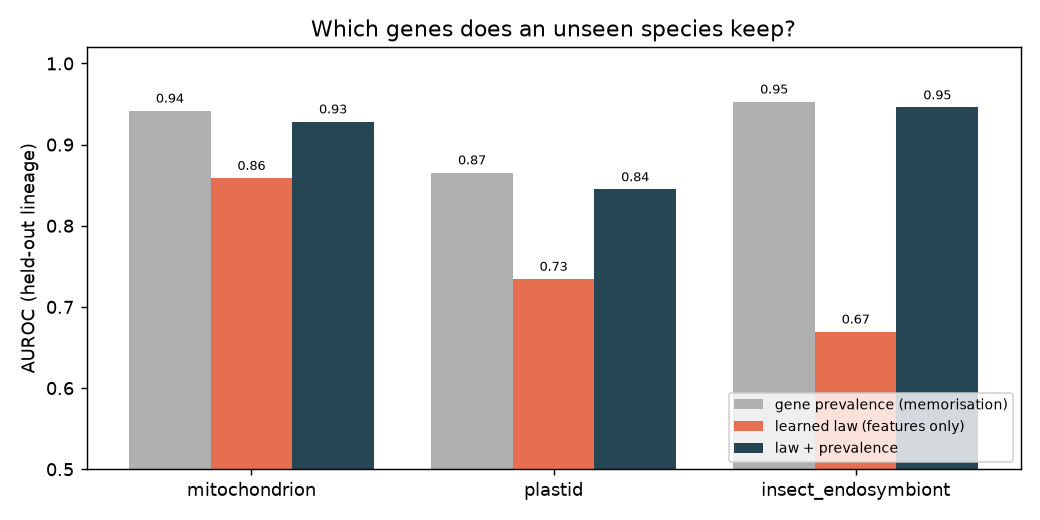
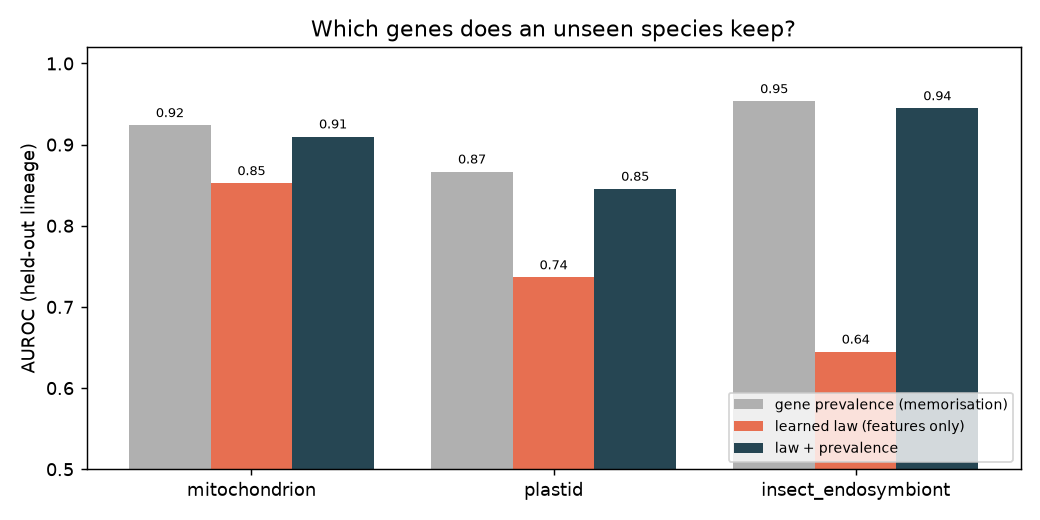
Rerun real-genome analysis with homology-based gene matching
64 genomes including Sodalis; 3,251 genes recovered by reciprocal best hits.
Update results/real and the README; conclusions are unchanged from name-only
matching, coefficient sizes shift slightly.

Claude-Session: https://claude.ai/code/session_01TJ6KiDmYYiq6zf1Ep6DJtF

diff --git a/results/real/forecasts.md b/results/real/forecasts.md
@@ -4,76 +4,77 @@
 
 | lineage | genes now | projected after +50% time (90% CI) | most at risk next |
 |---|---|---|---|
-| *Reclinomonas americana* | 65 | 64 (62-65) | rpod (13%), tata (13%), ccma (12%), rpoa (11%), rpob (9%) |
-| *Andalucia godoyi* | 64 | 62 (60-64) | rpoa (17%), tata (16%), ccma (15%), rpod (12%), rpob (11%) |
-| *Jakoba libera* | 60 | 57 (54-59) | tata (32%), ccma (29%), rpob (22%), rpoc (20%), nad10 (18%) |
-| *Marchantia polymorpha subsp. ruderalis* | 41 | 35 (31-38) | ccmfc (48%), ccmc (42%), ccmfn (40%), tatc (38%), ccmb (35%) |
-| *Physcomitrium patens* | 39 | 32 (28-36) | ccmfn (48%), ccmb (46%), ccmc (43%), tatc (41%), rps19 (34%) |
-| *Phytophthora infestans* | 35 | 28 (25-31) | nad11 (71%), tatc (51%), rps19 (40%), rps14 (37%), rps12 (36%) |
-| *Nephroselmis olivacea* | 34 | 27 (23-30) | nad10 (83%), tatc (51%), rps19 (37%), rps14 (37%), rps12 (36%) |
-| *Thalassiosira pseudonana* | 34 | 27 (23-30) | nad11 (75%), tatc (52%), rps14 (39%), rps12 (39%), rps13 (36%) |
-| *Acanthamoeba castellanii* | 31 | 24 (20-27) | nad11 (81%), rps12 (44%), rps19 (39%), rps14 (39%), rps13 (37%) |
-| *Dictyostelium discoideum* | 31 | 24 (21-27) | rps19 (46%), rps12 (44%), rps7 (42%), rps14 (42%), rps13 (41%) |
-| *Arabidopsis thaliana* | 29 | 22 (19-26) | ccmfc (71%), tatc (59%), ccmc (59%), ccmb (55%), rps12 (41%) |
-| *Prototheca wickerhamii* | 29 | 22 (19-25) | rps12 (51%), rps14 (48%), rps19 (44%), rps13 (43%), rps7 (42%) |
-| *Cyanidioschyzon merolae* | 26 | 20 (16-23) | rps14 (59%), rps12 (52%), rpl16 (50%), rpl20 (49%), rps4 (44%) |
-| *Monosiga brevicollis* | 26 | 19 (16-23) | tatc (64%), rps12 (56%), rps19 (50%), rps14 (50%), rpl16 (50%) |
-| *Chondrus crispus* | 22 | 17 (14-20) | tatc (79%), rps12 (63%), rpl16 (59%), rps3 (51%), rps11 (49%) |
-| *Tetrahymena thermophila* | 20 | 13 (10-16) | nad10 (96%), rps19 (57%), rps12 (56%), rps14 (55%), rpl16 (52%) |
-| *Allomyces macrogynus* | 15 | 12 (9-14) | rps3 (71%), atp8 (52%), cox2 (32%), atp9 (28%), nad3 (24%) |
-| *Neurospora crassa OR74A* | 14 | 11 (8-13) | atp8 (61%), cox2 (37%), atp9 (32%), cox3 (27%), nad3 (24%) |
-| *Danio rerio* | 13 | 10 (8-12) | atp8 (63%), cox2 (36%), nad3 (26%), nad4l (21%), cox3 (21%) |
-| *Drosophila melanogaster* | 13 | 10 (7-12) | atp8 (66%), cox2 (39%), nad3 (28%), cox3 (23%), nad4l (23%) |
-| *Gallus gallus* | 13 | 10 (7-12) | atp8 (63%), cox2 (38%), nad3 (28%), cox3 (24%), nad4l (24%) |
-| *Homo sapiens* | 13 | 10 (8-12) | atp8 (64%), cox2 (36%), nad3 (27%), cox3 (23%), nad4l (21%) |
-| *Metridium senile* | 13 | 10 (7-12) | atp8 (59%), cox2 (42%), nad3 (31%), cox3 (24%), nad4l (23%) |
-| *Mus musculus* | 13 | 10 (8-12) | atp8 (63%), cox2 (36%), nad3 (28%), cox3 (21%), atp6 (20%) |
-| *Caenorhabditis elegans* | 12 | 10 (7-12) | cox2 (42%), nad3 (31%), cox3 (27%), nad4l (26%), atp6 (20%) |
-| *Trichoplax adhaerens* | 11 | 8 (6-10) | cox2 (44%), nad3 (35%), cox3 (30%), nad4l (27%), cob (23%) |
-| *Schizosaccharomyces pombe* | 8 | 5 (3-7) | rps3 (85%), atp8 (71%), atp9 (44%), cox2 (43%), cox3 (26%) |
-| *Chlamydomonas reinhardtii* | 7 | 5 (3-7) | cob (34%), nad6 (34%), nad1 (28%), cox1 (24%), nad5 (24%) |
-| *Saccharomyces cerevisiae S288C* | 6 | 3 (2-5) | atp8 (83%), cox2 (56%), cox3 (40%), atp6 (30%), cob (30%) |
-| *Plasmodium falciparum* | 2 | 1 (0-2) | cox3 (73%), cox1 (51%) |
+| *Reclinomonas americana* | 65 | 63 (60-65) | rpoa (21%), rpod (18%), tata (16%), ccma (15%), rpoc (13%) |
+| *Andalucia godoyi* | 64 | 61 (58-63) | ccma (25%), rpoa (24%), rpod (22%), tata (21%), rpob (16%) |
+| *Jakoba libera* | 60 | 56 (52-59) | tata (36%), ccma (32%), rpob (27%), rpoc (23%), nad10 (16%) |
+| *Marchantia polymorpha subsp. ruderalis* | 42 | 35 (31-38) | ccmfc (45%), ccmfn (43%), ai1 (40%), tatc (37%), ccmc (36%) |
+| *Physcomitrium patens* | 40 | 33 (29-36) | ccmfn (46%), ccmc (38%), ccmb (37%), tatc (37%), rps14 (37%) |
+| *Nephroselmis olivacea* | 36 | 28 (24-32) | scei (63%), nad10 (58%), tatc (44%), rps12 (40%), rps19 (37%) |
+| *Phytophthora infestans* | 35 | 27 (23-31) | nad11 (55%), tatc (44%), rps14 (42%), rps12 (40%), rps19 (40%) |
+| *Thalassiosira pseudonana* | 35 | 27 (23-31) | ai1 (55%), nad11 (48%), tatc (47%), rps12 (41%), rps13 (40%) |
+| *Dictyostelium discoideum* | 34 | 26 (22-30) | scei (66%), nad11 (52%), rps19 (42%), rps12 (40%), rps14 (39%) |
+| *Acanthamoeba castellanii* | 32 | 24 (20-28) | nad11 (60%), rps14 (47%), rps13 (44%), rps19 (44%), rps12 (42%) |
+| *Arabidopsis thaliana* | 30 | 22 (19-26) | ccmfn (65%), ccmfc (65%), ccmb (58%), tatc (55%), ccmc (52%) |
+| *Cyanidioschyzon merolae* | 30 | 23 (20-26) | ccma (93%), ccmc (52%), rps14 (42%), rps12 (42%), rpl16 (38%) |
+| *Prototheca wickerhamii* | 30 | 23 (19-26) | rps12 (52%), rps19 (51%), rps14 (49%), rps7 (44%), rps13 (42%) |
+| *Monosiga brevicollis* | 26 | 19 (16-22) | tatc (60%), rps19 (55%), rps14 (54%), rps12 (52%), rps13 (50%) |
+| *Chondrus crispus* | 22 | 17 (13-19) | tatc (71%), rps12 (66%), rpl16 (57%), rps11 (55%), rps3 (47%) |
+| *Tetrahymena thermophila* | 21 | 14 (11-17) | nad10 (86%), rps19 (64%), rps14 (62%), rps12 (60%), rps13 (59%) |
+| *Allomyces macrogynus* | 17 | 13 (10-15) | scei (93%), ai1 (82%), rps3 (57%), atp8 (43%), atp9 (25%) |
+| *Neurospora crassa OR74A* | 15 | 11 (9-13) | bi2 (75%), atp8 (55%), atp9 (31%), cox2 (27%), nad3 (26%) |
+| *Danio rerio* | 13 | 10 (7-12) | atp8 (67%), cox2 (38%), nad3 (30%), atp6 (26%), nad4l (25%) |
+| *Drosophila melanogaster* | 13 | 10 (7-12) | atp8 (62%), cox2 (35%), nad3 (28%), atp6 (26%), nad4l (25%) |
+| *Gallus gallus* | 13 | 10 (7-12) | atp8 (62%), cox2 (36%), nad3 (33%), cox3 (27%), nad4l (22%) |
+| *Homo sapiens* | 13 | 10 (7-12) | atp8 (62%), cox2 (38%), cox3 (29%), nad3 (28%), nad4l (27%) |
+| *Metridium senile* | 13 | 10 (7-12) | atp8 (60%), cox2 (35%), nad3 (31%), nad4l (28%), cox3 (26%) |
+| *Mus musculus* | 13 | 10 (8-12) | atp8 (64%), cox2 (38%), nad3 (27%), cox3 (25%), nad4l (24%) |
+| *Caenorhabditis elegans* | 12 | 9 (7-11) | cox2 (40%), nad4l (33%), nad3 (31%), cox3 (26%), cob (24%) |
+| *Trichoplax adhaerens* | 12 | 9 (7-11) | cox2 (38%), nad3 (35%), atp6 (31%), nad4l (30%), cox3 (27%) |
+| *Saccharomyces cerevisiae S288C* | 10 | 6 (4-8) | scei (97%), ai1 (90%), bi2 (69%), atp8 (52%), cox2 (30%) |
+| *Schizosaccharomyces pombe* | 9 | 5 (3-7) | ai1 (96%), rps3 (72%), atp8 (60%), atp9 (36%), cox2 (32%) |
+| *Chlamydomonas reinhardtii* | 7 | 5 (3-7) | nad6 (38%), cob (33%), nad1 (32%), cox1 (29%), nad2 (29%) |
+| *Plasmodium falciparum* | 2 | 1 (0-2) | cox3 (68%), cox1 (52%) |
 
 ## plastid
 
 | lineage | genes now | projected after +50% time (90% CI) | most at risk next |
 |---|---|---|---|
-| *Porphyra purpurea* | 174 | 152 (145-159) | ycf31 (27%), thig (26%), ycf12 (26%), ycf33 (25%), cara (25%) |
-| *Cyanidioschyzon merolae strain 10D* | 173 | 151 (143-158) | apca (27%), rbcs (26%), odpa (26%), ilvb (25%), ycf65 (25%) |
-| *Paulinella chromatophora* | 167 | 144 (137-151) | cpca (31%), acpp (29%), chli (29%), apcf (29%), ycf23 (28%) |
-| *Guillardia theta* | 139 | 112 (105-119) | ycf33 (44%), ycf39 (42%), ycf20 (42%), ycf12 (42%), ftrb (41%) |
-| *Phaeodactylum tricornutum* | 130 | 103 (96-110) | this (50%), acpp (48%), ycf88 (46%), ycf12 (45%), ycf41 (45%) |
-| *Thalassiosira pseudonana* | 127 | 100 (93-108) | ycf39 (49%), this (49%), rbcr (48%), ycf45 (48%), ycf35 (48%) |
-| *Cyanophora paradoxa* | 124 | 95 (87-102) | ycf12 (51%), ycf34 (48%), apca (47%), cpca (46%), cpcb (45%) |
-| *Emiliania huxleyi* | 109 | 81 (74-89) | ycf47 (58%), ycf12 (57%), ycf3 (57%), ycf40 (56%), groel (55%) |
-| *Mesostigma viride* | 99 | 72 (66-78) | ycf12 (63%), ycf6 (62%), ycf3 (60%), ycf61 (60%), chln (58%) |
-| *Nephroselmis olivacea* | 91 | 64 (57-71) | ycf12 (64%), chln (64%), ycf6 (63%), ycf4 (62%), chlb (62%) |
-| *Physcomitrium patens* | 81 | 56 (49-62) | chlb (69%), ycf4 (69%), ycf3 (68%), accd (68%), clpp (68%) |
-| *Marchantia polymorpha* | 80 | 56 (49-63) | clpp (71%), accd (70%), cysa (68%), chll (68%), ycf45 (68%) |
-| *Arabidopsis thaliana* | 78 | 54 (48-61) | clpp (70%), ycf4 (69%), accd (68%), ycf3 (68%), matk (67%) |
-| *Nicotiana tabacum* | 78 | 54 (48-60) | ycf3 (72%), rbcl (71%), clpp (70%), accd (69%), matk (68%) |
-| *Amborella trichopoda* | 76 | 53 (46-59) | ycf3 (73%), clpp (72%), accd (68%), rbcl (68%), ycf4 (67%) |
-| *Oryza sativa Japonica Group* | 75 | 52 (46-58) | ycf3 (73%), matk (72%), clpp (70%), ycf4 (70%), rbcl (68%) |
-| *Chlamydomonas reinhardtii* | 62 | 39 (34-45) | ycf12 (83%), ycf3 (78%), clpp (77%), chll (76%), rbcl (76%) |
-| *Euglena gracilis* | 57 | 36 (31-41) | ycf12 (84%), ycf9 (83%), ycf4 (79%), chli (79%), rbcl (78%) |
-| *Toxoplasma gondii RH* | 21 | 9 (5-12) | clpc (96%), ycf24 (94%), rpl6 (63%), rpl4 (62%), rps11 (62%) |
-| *Epifagus virginiana* | 20 | 7 (4-11) | clpp (96%), accd (95%), matk (93%), ycf2 (87%), rpl33 (59%) |
-| *Plasmodium falciparum 3D7* | 19 | 7 (4-11) | rpl6 (67%), rpl14 (66%), rps11 (65%), rps7 (65%), rps8 (65%) |
+| *Paulinella chromatophora* | 206 | 187 (180-194) | ilvh (19%), lipb (18%), ycf59 (18%), ycf32 (18%), apcd (18%) |
+| *Porphyra purpurea* | 195 | 173 (165-179) | ycf12 (23%), ycf33 (23%), ycf27 (22%), cpcg (22%), ycf17 (22%) |
+| *Cyanidioschyzon merolae strain 10D* | 188 | 164 (156-171) | hlp (26%), ycf62 (25%), nbla (25%), ycf22 (25%), apca (24%) |
+| *Guillardia theta* | 142 | 113 (105-120) | ycf3 (45%), ycf16 (45%), ycf65 (45%), ilvh (44%), ycf31 (44%) |
+| *Phaeodactylum tricornutum* | 130 | 101 (94-108) | ycf12 (52%), cbbx (50%), rbcs (50%), chli (50%), this (49%) |
+| *Cyanophora paradoxa* | 128 | 96 (88-104) | ycf34 (51%), apca (50%), groes (50%), chli (48%), ycf35 (48%) |
+| *Thalassiosira pseudonana* | 127 | 98 (92-106) | this (51%), ycf3 (51%), ycf16 (50%), ycf4 (50%), rbcr (50%) |
+| *Emiliania huxleyi* | 112 | 82 (75-88) | rbcs (60%), ycf20 (58%), ycf80 (58%), ycf12 (57%), ycf27 (56%) |
+| *Mesostigma viride* | 99 | 70 (64-78) | ycf12 (65%), ycf6 (63%), ycf65 (62%), ycf62 (62%), chlb (62%) |
+| *Nephroselmis olivacea* | 91 | 63 (57-70) | ycf6 (69%), ycf12 (68%), ycf4 (67%), cysa (64%), chli (64%) |
+| *Marchantia polymorpha* | 83 | 58 (51-64) | cysa (73%), ycf12 (73%), ycf3 (71%), ycf45 (70%), chln (69%) |
+| *Physcomitrium patens* | 83 | 57 (50-63) | ycf12 (73%), accd (72%), chln (70%), matk (68%), ycf3 (67%) |
+| *Amborella trichopoda* | 79 | 55 (49-61) | ycf3 (71%), clpp (71%), rbcl (71%), matk (70%), accd (70%) |
+| *Arabidopsis thaliana* | 78 | 54 (48-60) | rbcl (73%), accd (72%), clpp (72%), ycf3 (71%), ycf4 (70%) |
+| *Nicotiana tabacum* | 78 | 54 (48-60) | rbcl (74%), accd (73%), matk (73%), clpp (71%), ycf4 (71%) |
+| *Oryza sativa Japonica Group* | 76 | 53 (46-58) | matk (76%), ycf3 (74%), rbcl (70%), clpp (69%), ycf4 (68%) |
+| *Chlamydomonas reinhardtii* | 63 | 40 (35-47) | ycf12 (78%), ycf3 (77%), chln (77%), ycf4 (75%), rbcl (75%) |
+| *Euglena gracilis* | 57 | 36 (30-41) | ycf12 (85%), ycf9 (85%), chli (83%), rbcl (81%), ycf4 (76%) |
+| *Epifagus virginiana* | 21 | 8 (4-11) | clpp (94%), accd (93%), matk (93%), ycf1 (91%), ycf2 (89%) |
+| *Plasmodium falciparum 3D7* | 21 | 8 (5-12) | ycf24 (97%), clpc (96%), rps8 (63%), rpl36 (62%), rpl6 (62%) |
+| *Toxoplasma gondii RH* | 21 | 9 (5-12) | ycf24 (95%), clpc (94%), rps19 (62%), rpl14 (62%), rps4 (62%) |
 
 ## insect_endosymbiont
 
 | lineage | genes now | projected after +50% time (90% CI) | most at risk next |
 |---|---|---|---|
-| *Serratia symbiotica* | 1226 | 688 (661-714) | ilvl (64%), mrdb (64%), gntt (64%), tsga (63%), ydik (63%) |
-| *Candidatus Hamiltonella defensa (Bemisia tabaci)* | 694 | 313 (294-333) | znub (80%), pgsa (79%), rhta (79%), weca (78%), ftsw (78%) |
-| *Candidatus Palibaumannia cicadellinicola* | 528 | 218 (202-237) | weca (84%), murj (82%), pgsa (81%), baca (81%), mred (81%) |
-| *Wigglesworthia glossinidia endosymbiont of Glossina morsitans morsitans (Yale colony)* | 525 | 215 (196-231) | nhaa (83%), mray (82%), yhdy (82%), ydik (82%), ycic (82%) |
-| *Candidatus Blochmanniella floridana* | 479 | 197 (183-216) | gltp (84%), many (84%), yjce (84%), mray (83%), ybhl (83%) |
-| *Candidatus Blochmanniella pennsylvanica* | 429 | 166 (151-182) | ftsw (85%), ubia (85%), mray (84%), mred (84%), plsy (83%) |
-| *Buchnera aphidicola str. APS (Acyrthosiphon pisum)* | 422 | 167 (153-182) | rsxa (87%), mray (86%), cyoe (86%), znub (85%), murj (84%) |
-| *Buchnera aphidicola str. Bp (Baizongia pistaciae)* | 418 | 167 (153-182) | mray (87%), znub (86%), yabi (85%), ycic (85%), cvpa (84%) |
-| *Buchnera aphidicola (Schizaphis graminum)* | 416 | 164 (148-180) | flir (86%), rsxa (85%), tsga (84%), mscs (84%), znub (84%) |
-| *Buchnera aphidicola (Cinara tujafilina)* | 309 | 117 (105-129) | ycic (90%), yche (89%), cyoe (88%), yhgn (88%), yeda (87%) |
-| *Candidatus Moranella endobia PCIT* | 298 | 113 (101-124) | ftsw (90%), lspa (89%), mscl (88%), mray (87%), baca (87%) |
-| *Candidatus Riesia pediculicola* | 297 | 104 (93-116) | mray (89%), ftsw (88%), potb (88%), nhaa (88%), murj (87%) |
+| *Serratia symbiotica* | 1698 | 1096 (1063-1124) | seta (54%), phel (53%), cysz (53%), dgka (53%), phem (53%) |
+| *Sodalis glossinidius str. 'morsitans'* | 1588 | 994 (962-1025) | yqae (58%), yjch (57%), ilvl (56%), weca (56%), gdx (54%) |
+| *Candidatus Hamiltonella defensa (Bemisia tabaci)* | 931 | 467 (446-491) | pgsa (70%), weca (70%), arnf (70%), rhta (69%), yhdt (69%) |
+| *Candidatus Palibaumannia cicadellinicola* | 639 | 280 (261-301) | weca (78%), yggt (78%), ubia (77%), yjce (77%), lapa (77%) |
+| *Wigglesworthia glossinidia endosymbiont of Glossina morsitans morsitans (Yale colony)* | 596 | 255 (236-273) | yhdy (80%), murj (79%), mnth (79%), emre (79%), ycca (78%) |
+| *Candidatus Blochmanniella floridana* | 570 | 245 (229-262) | znub (81%), ftsb (79%), mred (79%), murj (79%), plsy (79%) |
+| *Buchnera aphidicola str. APS (Acyrthosiphon pisum)* | 547 | 234 (215-251) | mray (81%), rsxa (81%), glpf (80%), cyoe (80%), rsxe (79%) |
+| *Buchnera aphidicola (Schizaphis graminum)* | 546 | 232 (215-252) | ycic (82%), flir (81%), fliq (80%), yeda (80%), mscs (79%) |
+| *Candidatus Blochmanniella pennsylvanica* | 541 | 225 (210-243) | mnth (80%), znub (80%), ubia (79%), mrdb (79%), lspa (79%) |
+| *Buchnera aphidicola str. Bp (Baizongia pistaciae)* | 498 | 207 (190-224) | znub (83%), ydik (82%), mray (82%), tsga (81%), cvpa (81%) |
+| *Candidatus Riesia pediculicola* | 430 | 165 (150-181) | mray (84%), mrdb (84%), ybhl (83%), potb (83%), potc (82%) |
+| *Candidatus Moranella endobia PCIT* | 399 | 156 (141-169) | ycic (86%), murj (85%), mrdb (85%), lptf (84%), yggt (84%) |
+| *Buchnera aphidicola (Cinara tujafilina)* | 357 | 138 (126-152) | yhgn (87%), ycic (86%), yche (86%), rpll (85%), cyoe (85%) |

diff --git a/README.md b/README.md
@@ -99,42 +99,45 @@ kL    *= 1 + coupling · (같은 경로에서 이미 소실된 비율)   (경로
 
 `realdata/` 패키지는 NCBI에서 실제 유전체를 받아 같은 방식으로 학습합니다.
 
-1. **수집** (`scripts/fetch_data.py`, GitHub Actions `fetch-data.yml`로 자동 실행): 미토콘드리아 30종(자코바이드 → 식물 → 균류 → 동물 → *Plasmodium*), 색소체 21종(시아넬, 홍조류, 녹색식물, 기생식물 *Epifagus*, 아피코플라스트, 독립적 1차 공생인 *Paulinella* 크로마토포어), 곤충 내공생세균 12종(*Serratia symbiotica* → *Buchnera*). 곤충 내공생세균의 조상 대리로는 자유생활 근연종 *E. coli* K-12(유전자 4,277개)를 씁니다. `/gene`이 없는 오래된 기록은 `/product` 설명에서 유전자 기호를 추론합니다.
-2. **특성**은 실제 단백질 서열에서 직접 계산합니다. Kyte-Doolittle 소수성(GRAVY), 막관통 나선 수, 단백질 길이, 기능군(전자전달 핵심, ATP 합성효소, 번역, 전사, 단백질 표적화)입니다.
-3. **학습**: 실제 유전체에서는 빠진 유전자가 핵으로 갔는지 사라졌는지 구별하기 어렵습니다. 그래서 "소기관을 떠나는" 결합 위험도 하나를 학습합니다(보존 확률 = exp(−exp(a + x·w))).
-4. **검증**: 한 종을 빼고 학습한 뒤, 그 종이 **몇 개**를 남겼는지만 주고 **어떤** 유전자를 남겼는지 예측합니다(leave-one-lineage-out AUROC). 기준선은 다른 종에서의 유전자 보존 빈도입니다.
-5. **보편성 검정**: 한 법칙으로 세 시스템을 모두 설명하는 모델과 시스템마다 법칙을 따로 두는 모델을 AIC로 비교합니다.
-6. **예측**: 각 종이 지금보다 50% 더 진화했을 때 몇 개의 유전자가 남고, 다음에 어떤 유전자가 떠날지 예측합니다(`results/real/forecasts.md`).
+1. **수집** (`scripts/fetch_data.py`, GitHub Actions `fetch-data.yml`로 자동 실행): 미토콘드리아 30종(자코바이드 → 식물 → 균류 → 동물 → *Plasmodium*), 색소체 21종(시아넬, 홍조류, 녹색식물, 기생식물 *Epifagus*, 아피코플라스트, 독립적 1차 공생인 *Paulinella* 크로마토포어), 곤충 내공생세균 13종(*Sodalis* → *Serratia symbiotica* → *Buchnera*). 곤충 내공생세균의 조상 대리로는 자유생활 근연종 *E. coli* K-12(유전자 4,277개)를 씁니다.
+2. **유전자 짝짓기** (`realdata/homology.py`): 주석은 일관성이 없어서, 같은 유전자가 어떤 기록에서는 이름이 없거나 다른 이름으로 붙어 있습니다. 먼저 `/gene` 이름이나 `/product` 설명으로 짝짓고, 나머지는 **단백질 서열 유사도**(HMMER3 phmmer)로 짝짓습니다. 곤충 공생세균은 *E. coli* 단백질과, 소기관은 다른 종들의 이름 있는 단백질과 비교합니다. 서로가 서로의 최고 일치(reciprocal best hit)이고, E ≤ 1e-10이며, 양쪽 서열의 50% 이상이 정렬될 때만 이름을 붙입니다. 이 방식으로 이름만으로는 놓쳤던 유전자 **3,251개**를 찾았습니다(곤충 공생세균 3,150개, 색소체 79개, 미토콘드리아 22개). 예를 들어 *Buchnera* APS의 대장균 유래 유전자는 435개에서 547개가 됐고, 유전자의 7%에만 이름이 붙어 있던 *Sodalis*도 분석에 넣을 수 있게 됐습니다.
+3. **특성**은 실제 단백질 서열에서 직접 계산합니다. Kyte-Doolittle 소수성(GRAVY), 막관통 나선 수, 단백질 길이, 기능군(전자전달 핵심, ATP 합성효소, 번역, 전사, 단백질 표적화)입니다.
+4. **학습**: 실제 유전체에서는 빠진 유전자가 핵으로 갔는지 사라졌는지 구별하기 어렵습니다. 그래서 "소기관을 떠나는" 결합 위험도 하나를 학습합니다(보존 확률 = exp(−exp(a + x·w))).
+5. **검증**: 한 종을 빼고 학습한 뒤, 그 종이 **몇 개**를 남겼는지만 주고 **어떤** 유전자를 남겼는지 예측합니다(leave-one-lineage-out AUROC). 기준선은 다른 종에서의 유전자 보존 빈도입니다.
+6. **보편성 검정**: 한 법칙으로 세 시스템을 모두 설명하는 모델과 시스템마다 법칙을 따로 두는 모델을 AIC로 비교합니다.
+7. **예측**: 각 종이 지금보다 50% 더 진화했을 때 몇 개의 유전자가 남고, 다음에 어떤 유전자가 떠날지 예측합니다(`results/real/forecasts.md`).
 
 ```bash
 python scripts/fetch_data.py      # eutils.ncbi.nlm.nih.gov 접근 필요
 python scripts/run_realdata.py    # → results/real/
 ```
 
-### 실제 데이터 결과 (유전체 63개)
+### 실제 데이터 결과 (유전체 64개)
 
 ![real laws](results/real/fig_real_laws.png)
 
 **1. 세 시스템이 공유하는 법칙.** 전자전달 핵심 유전자(nad/cox/cob, psa/psb/pet, nuo/cyo), ATP 합성효소, 번역 장치(리보솜 단백질, EF-Tu)는 세 시스템 모두에서 뚜렷하게 **남는** 쪽입니다. 숙주가 누구든, 공생체 안에서 에너지를 만들고 그 단백질을 번역하는 핵심은 끝까지 남습니다.
 
-**2. 시스템마다 다른 법칙.** 하나의 법칙으로 세 시스템을 설명하는 모델은 시스템별 모델보다 훨씬 나쁩니다(ΔAIC = 799). 가장 큰 차이는 다음 두 가지입니다.
-- **전사(RNA 중합효소, rpo):** 미토콘드리아에서는 **잃는** 쪽(+0.68)이지만, 색소체에서는 가장 강하게 **남는** 쪽(−2.46)입니다. 실제로 거의 모든 진핵생물의 미토콘드리아는 세균형 RNA 중합효소를 버리고 파지형 효소로 대체했고(자코바이드만 예외), 엽록체는 세균형 중합효소(PEP)를 유지합니다. 모델이 이 차이를 데이터만으로 찾아냈습니다.
-- **소수성과 막관통 나선:** 미토콘드리아에서만 보존 효과가 있습니다(막관통 −0.51 ± 0.27). 핵으로 옮겨 갈 경로가 없는 곤충 내공생세균에서는 효과가 없거나 반대입니다. "소수성 단백질은 핵으로 옮긴 뒤 다시 수입하기 어려워 남는다"는 소수성 가설과 맞아떨어집니다. 이 효과는 핵으로의 전달이 있을 때만 의미가 있기 때문입니다. 반면 색소체에서는 뚜렷한 효과가 없어서, 가설이 모든 소기관에 똑같이 적용되지는 않음을 보여줍니다.
-- 미토콘드리아에서는 단백질 표적화/시토크롬 c 생합성(ccm, tat, sec) 유전자가 빨리 사라집니다(+0.81).
+**2. 시스템마다 다른 법칙.** 하나의 법칙으로 세 시스템을 설명하는 모델은 시스템별 모델보다 훨씬 나쁩니다(ΔAIC = 787). 가장 큰 차이는 다음 두 가지입니다.
+- **전사(RNA 중합효소, rpo):** 미토콘드리아에서는 **잃는** 쪽(+1.02 ± 0.53)이지만, 색소체에서는 가장 강하게 **남는** 쪽(−2.55 ± 0.70)입니다. 실제로 거의 모든 진핵생물의 미토콘드리아는 세균형 RNA 중합효소를 버리고 파지형 효소로 대체했고(자코바이드만 예외), 엽록체는 세균형 중합효소(PEP)를 유지합니다. 모델이 이 차이를 데이터만으로 찾아냈습니다.
+- **소수성과 막관통 나선:** 미토콘드리아에서만 보존 효과가 있습니다(막관통 −0.37 ± 0.23, 소수성 −0.32 ± 0.15). 핵으로 옮겨 갈 경로가 없는 곤충 내공생세균에서는 효과가 없거나 반대입니다. "소수성 단백질은 핵으로 옮긴 뒤 다시 수입하기 어려워 남는다"는 소수성 가설과 맞아떨어집니다. 이 효과는 핵으로의 전달이 있을 때만 의미가 있기 때문입니다. 반면 색소체에서는 뚜렷한 효과가 없어서, 가설이 모든 소기관에 똑같이 적용되지는 않음을 보여줍니다.
+- 미토콘드리아에서는 단백질 표적화/시토크롬 c 생합성(ccm, tat, sec) 유전자가 빨리 사라집니다(+0.90).
+
+이 결론들은 유전자를 이름으로만 짝지었을 때와 유사도로 짝지었을 때 모두 같게 나옵니다. 계수의 크기는 조금 달라지지만 부호와 유의성은 그대로입니다.
 
 **3. 처음 보는 종 예측하기.** 한 종을 빼고 학습한 뒤, 그 종이 몇 개를 남겼는지만 알려주고 어떤 유전자를 남겼는지 맞히게 했습니다.
 
 ![held-out](results/real/fig_real_heldout.png)
 
-유전자 이름을 전혀 보지 않고 특성만 쓰는 법칙으로도 AUROC 0.86(미토콘드리아)을 얻었습니다. 하지만 "다른 종에서 이 유전자가 얼마나 자주 남았나"를 외우는 기준선이 더 강하고, 둘을 합쳐도 나아지지 않습니다. **정직한 해석:** 현재 8개 특성은 일반 원리를 잘 담지만, 유전자별 사정(구체적인 단백질 복합체 조립 방식 등)까지 설명하지는 못합니다. 대신 법칙은 처음 보는 유전자에도 적용할 수 있습니다.
+유전자 이름을 전혀 보지 않고 특성만 쓰는 법칙으로도 AUROC 0.85(미토콘드리아)를 얻었습니다. 하지만 "다른 종에서 이 유전자가 얼마나 자주 남았나"를 외우는 기준선이 더 강하고, 둘을 합쳐도 나아지지 않습니다. **정직한 해석:** 현재 8개 특성은 일반 원리를 잘 담지만, 유전자별 사정(구체적인 단백질 복합체 조립 방식 등)까지 설명하지는 못합니다. 대신 법칙은 처음 보는 유전자에도 적용할 수 있습니다.
 
-**4. 미래 예측 (`results/real/forecasts.md`).** 예를 들어 사람 mtDNA(13개)는 50% 더 진화하면 약 10개(90% 구간 8–12개)가 남고, 다음으로 사라질 가능성이 가장 높은 유전자는 **atp8**(64%)입니다. atp8은 가장 작은 mtDNA 단백질이고, 실제로 예쁜꼬마선충과 클라미도모나스 등 여러 계통에서 이미 사라졌습니다. 이 수치는 학습된 법칙을 연장한 투영이며, 검증된 예측이 아닙니다.
+**4. 미래 예측 (`results/real/forecasts.md`).** 예를 들어 사람 mtDNA(13개)는 50% 더 진화하면 약 10개(90% 구간 7–12개)가 남고, 다음으로 사라질 가능성이 가장 높은 유전자는 **atp8**(62%)입니다. atp8은 가장 작은 mtDNA 단백질이고, 실제로 예쁜꼬마선충과 클라미도모나스 등 여러 계통에서 이미 사라졌습니다. 이 수치는 학습된 법칙을 연장한 투영이며, 검증된 예측이 아닙니다.
 
 주의할 점:
 - 모든 계통에서 사라진 유전자는 관측되지 않습니다. 미토콘드리아와 색소체에서는 가장 유전자가 많은 유전체들의 합집합이 조상을 대신합니다.
 - 계통들은 계통수를 공유하므로 독립이 아닙니다.
 - Kyte-Doolittle 막관통 예측은 조잡한 편이라 실제 나선 수를 과소평가합니다.
-- 유전자는 이름으로만 대응시킵니다(상동성 검색 없음). 곤충 내공생세균 기록 중 유전자 기호가 없는 CDS는 "없음"으로 처리되어 소실이 과대평가될 수 있습니다. 같은 이유로 *Sodalis*는 제외했습니다(기록의 약 7%만 이름이 있음).
+- 유사도 짝짓기는 보수적입니다(양방향 최고 일치). 빠르게 진화한 유전자(예: 섬모충 미토콘드리아의 nad 유전자)는 여전히 놓칠 수 있어, 소실이 약간 과대평가될 수 있습니다. 유사도 검색 결과는 `data/processed/homology.json`에 캐시되고, `--no-homology`로 이름만 쓰는 분석과 비교할 수 있습니다.
 - *Plasmodium* 미토콘드리아 RefSeq 기록(NC_037526)은 cob을 "cytochrome oxidase I"로 잘못 주석해서 유전자가 2개로 잡힙니다. 데이터는 손으로 고치지 않았습니다.
 
 ## 실행
@@ -156,7 +159,7 @@ src/organelle_evo/
   inference.py   ② 신경망 사후분포 추정 (SBI)
   predict.py     ③ 예측, 기준선, AUROC
   systems.py     미토콘드리아 / 색소체 / 곤충 내공생세균 시스템 정의
-  realdata/      NCBI 수집, GenBank 파싱, 서열 특성, 실제 데이터 분석
+  realdata/      NCBI 수집, GenBank 파싱, 유사도 기반 유전자 짝짓기, 서열 특성, 실제 데이터 분석
   plots.py
 scripts/run_pipeline.py, run_systems.py, fetch_data.py, run_realdata.py
 tests/
